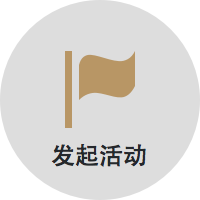
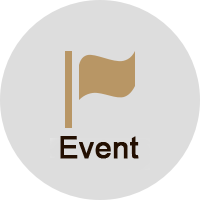
English Button

Changed region(s): [[0.24, 0.66, 0.75, 0.84]]

diff --git a/touch/Controller/Newsfeed/ActivityListViewController.m b/touch/Controller/Newsfeed/ActivityListViewController.m
@@ -367,7 +367,7 @@
     [containerView addSubview:tagImageView];
     
     UILabel *tagLabel = [[UILabel alloc] initWithFrame:CGRectMake(45, height, containerWidth - 5 - 45, 20)];
-    tagLabel.text = [NSString stringWithFormat:@"%@",@"用户发状态时所在的位置"];
+    tagLabel.text = [NSString stringWithFormat:@"%@",@"▽ Location"];
     tagLabel.font = [UIFont systemFontOfSize:13];
     tagLabel.textColor = RGBACOLOR(136, 157, 181, 1);
     [containerView addSubview:tagLabel];
@@ -470,7 +470,7 @@
     [likeBtn setImageEdgeInsets:UIEdgeInsetsMake(0, -25, 0, 0)];
     [likeBtn setTitleColor:RGBACOLOR(146, 146, 146, 1) forState:UIControlStateNormal];
     [likeBtn.titleLabel setFont:[UIFont systemFontOfSize:13]];
-    [likeBtn setTitle:@"点赞" forState:UIControlStateNormal];
+    [likeBtn setTitle:@"Interested" forState:UIControlStateNormal];
     likeBtn.tag = indexPath.row;
     [likeBtn addTarget:self action:@selector(likeAction:) forControlEvents:UIControlEventTouchUpInside];
     [containerView addSubview:likeBtn];
@@ -482,7 +482,7 @@
     [commentBtn setImageEdgeInsets:UIEdgeInsetsMake(0, -25, 0, 0)];
     [commentBtn setTitleColor:RGBACOLOR(146, 146, 146, 1) forState:UIControlStateNormal];
     [commentBtn.titleLabel setFont:[UIFont systemFontOfSize:13]];
-    [commentBtn setTitle:@"评论" forState:UIControlStateNormal];
+    [commentBtn setTitle:@"Comment" forState:UIControlStateNormal];
     commentBtn.tag = indexPath.row;
     [commentBtn addTarget:self action:@selector(commentAction:) forControlEvents:UIControlEventTouchUpInside];
     [containerView addSubview:commentBtn];
